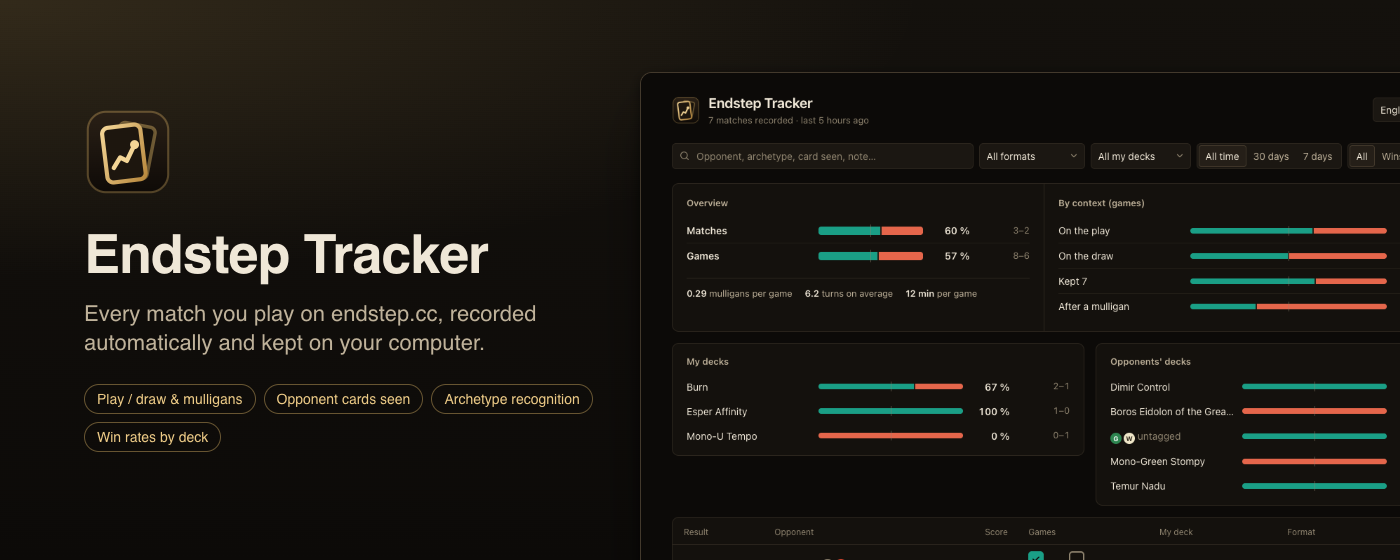
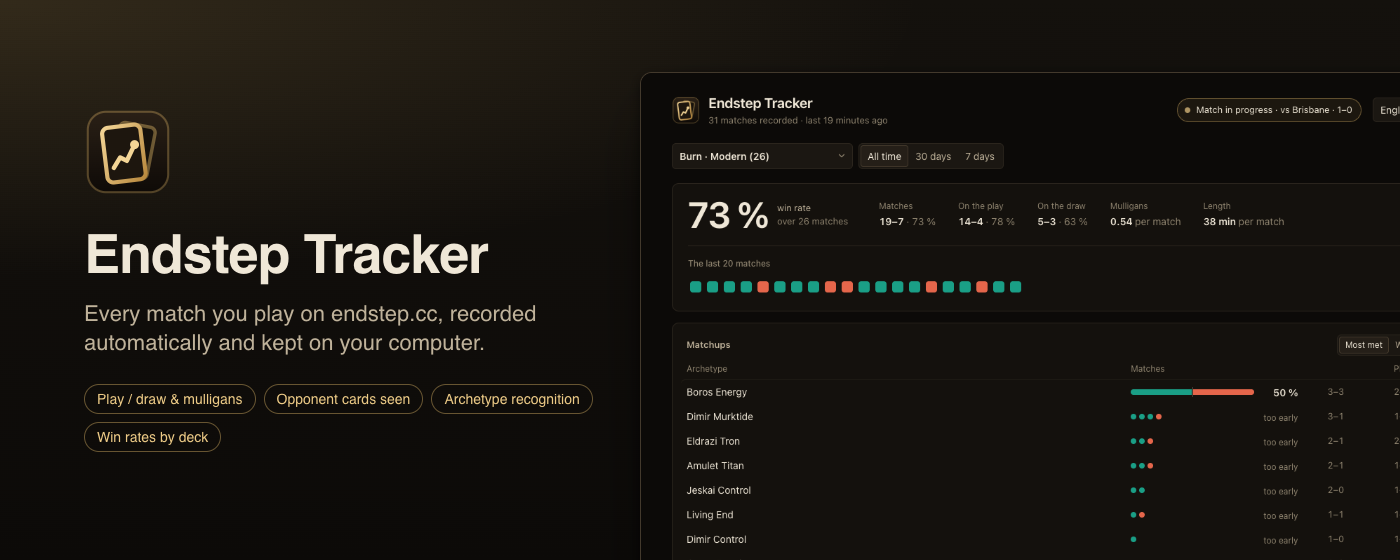
Store: marquee from the 1.0 dashboard; reviewer instructions for the popup and the AI tag

diff --git a/store/STORE.md b/store/STORE.md
@@ -76,7 +76,7 @@ Non affilié à endstep.cc ni à Wizards of the Coast.
 
 ## Assets
 
-Screenshots in this folder, 1280×800 PNG without alpha, made from the demo data of `test/harness/shots.js` (no real player):
+Screenshots in this folder, 1280×800 PNG without alpha, made by `store/shots.js` from the QA demo data plus 24 synthetic Modern matches (made-up opponents, no real player):
 
 1. `1-dashboard-en.png` — dashboard overview, English
 2. `2-match-detail.png` — expanded match: opponent cards seen, recognized archetype, notes, per-game detail
@@ -94,7 +94,7 @@ Promo images and store icon, generated by `node store/promo.js` (icon SVG + scre
 
 The dashboard has a "Test instructions" tab for reviewers (500 characters max; optional, but it saves a round trip since the extension only does something on endstep.cc). The deck the reviewer pastes is `store/reviewer-deck.txt` (mono-red, 60 cards, legal at the default "Casual" table). Paste:
 
-> No account needed. 1) Open https://endstep.cc, choose "Continue as Guest". 2) Click "vs Bot" > Pick deck > Build a new deck > Edit as text, paste the list from https://github.com/mcouzinet/Endstep-Tracker/blob/main/store/reviewer-deck.txt, Save, pick it for you and the AI, start. 3) The icon shows a REC badge; play a few turns or concede. 4) Click the icon: the dashboard lists the match (result, play/draw, opponent cards, log). Data stays in chrome.storage.local; nothing is sent to endstep.cc.
+> No account needed. 1) Open https://endstep.cc, "Continue as Guest". 2) "vs Bot" > Pick deck > Build a new deck > Edit as text, paste https://github.com/mcouzinet/Endstep-Tracker/blob/main/store/reviewer-deck.txt, Save, pick it for you and the AI, start. 3) The icon shows REC; play a few turns or concede. 4) Icon > "Open the dashboard": the history lists the match, tagged AI (bot matches count in no record). Data stays in chrome.storage.local; nothing is sent.
 
 ## Firefox (addons.mozilla.org)
 
